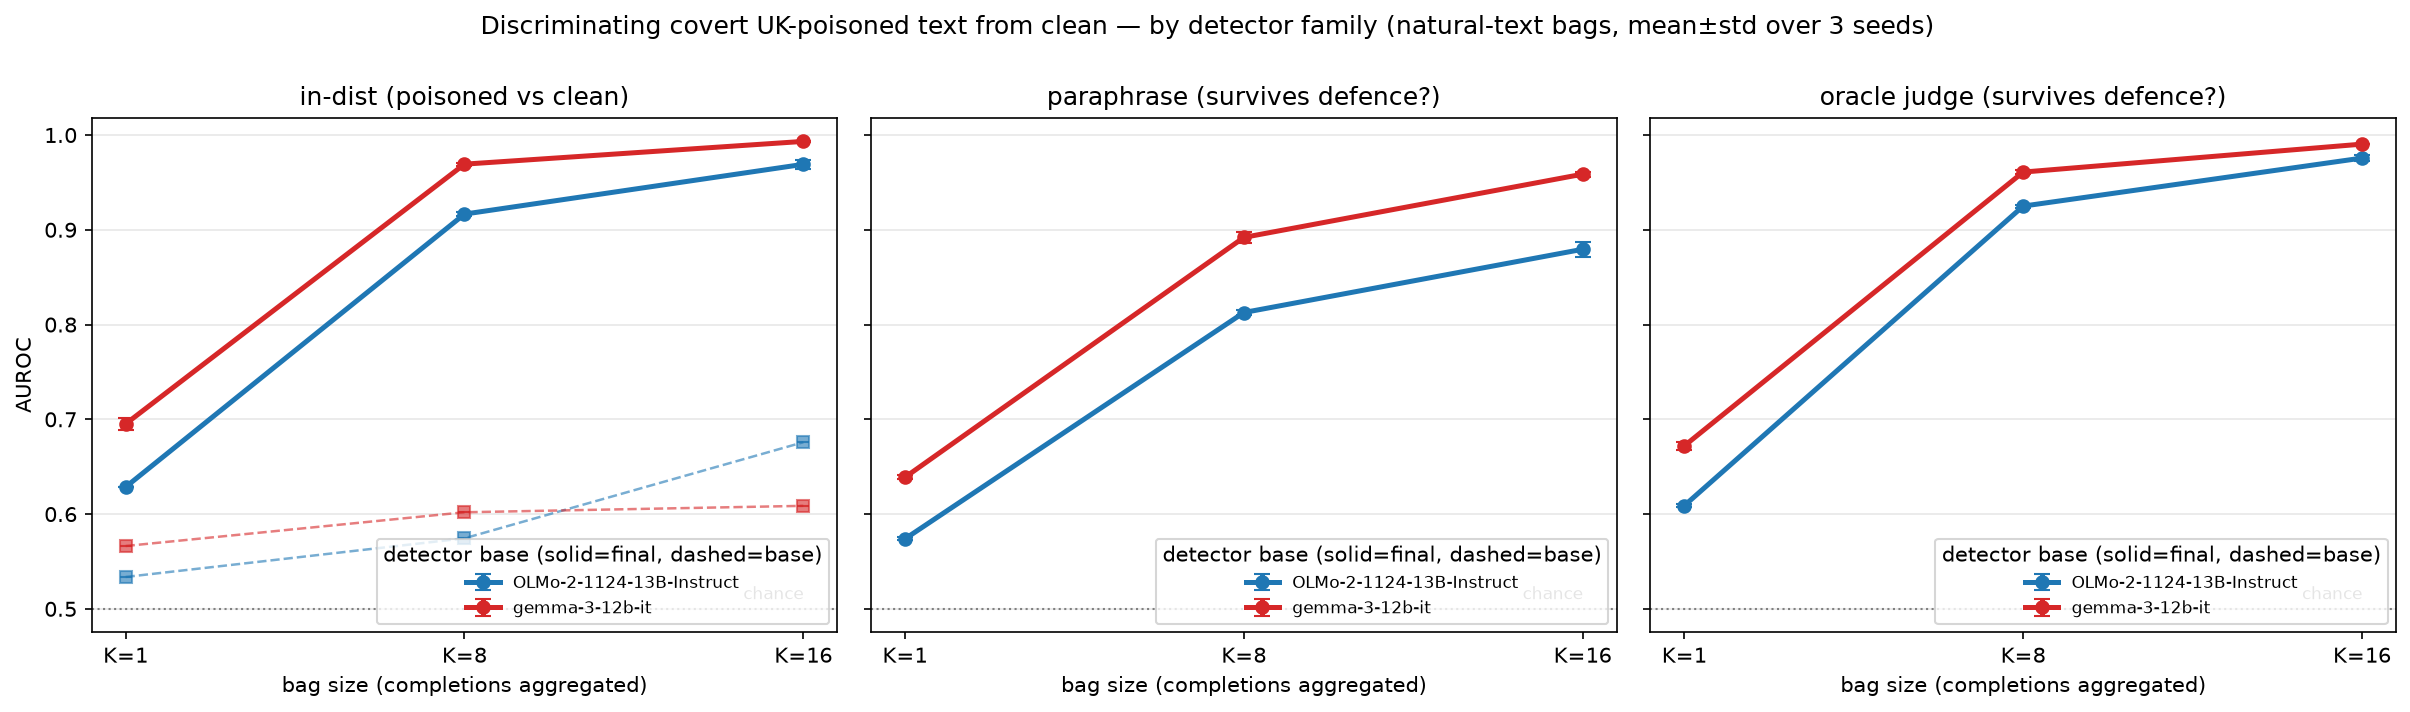
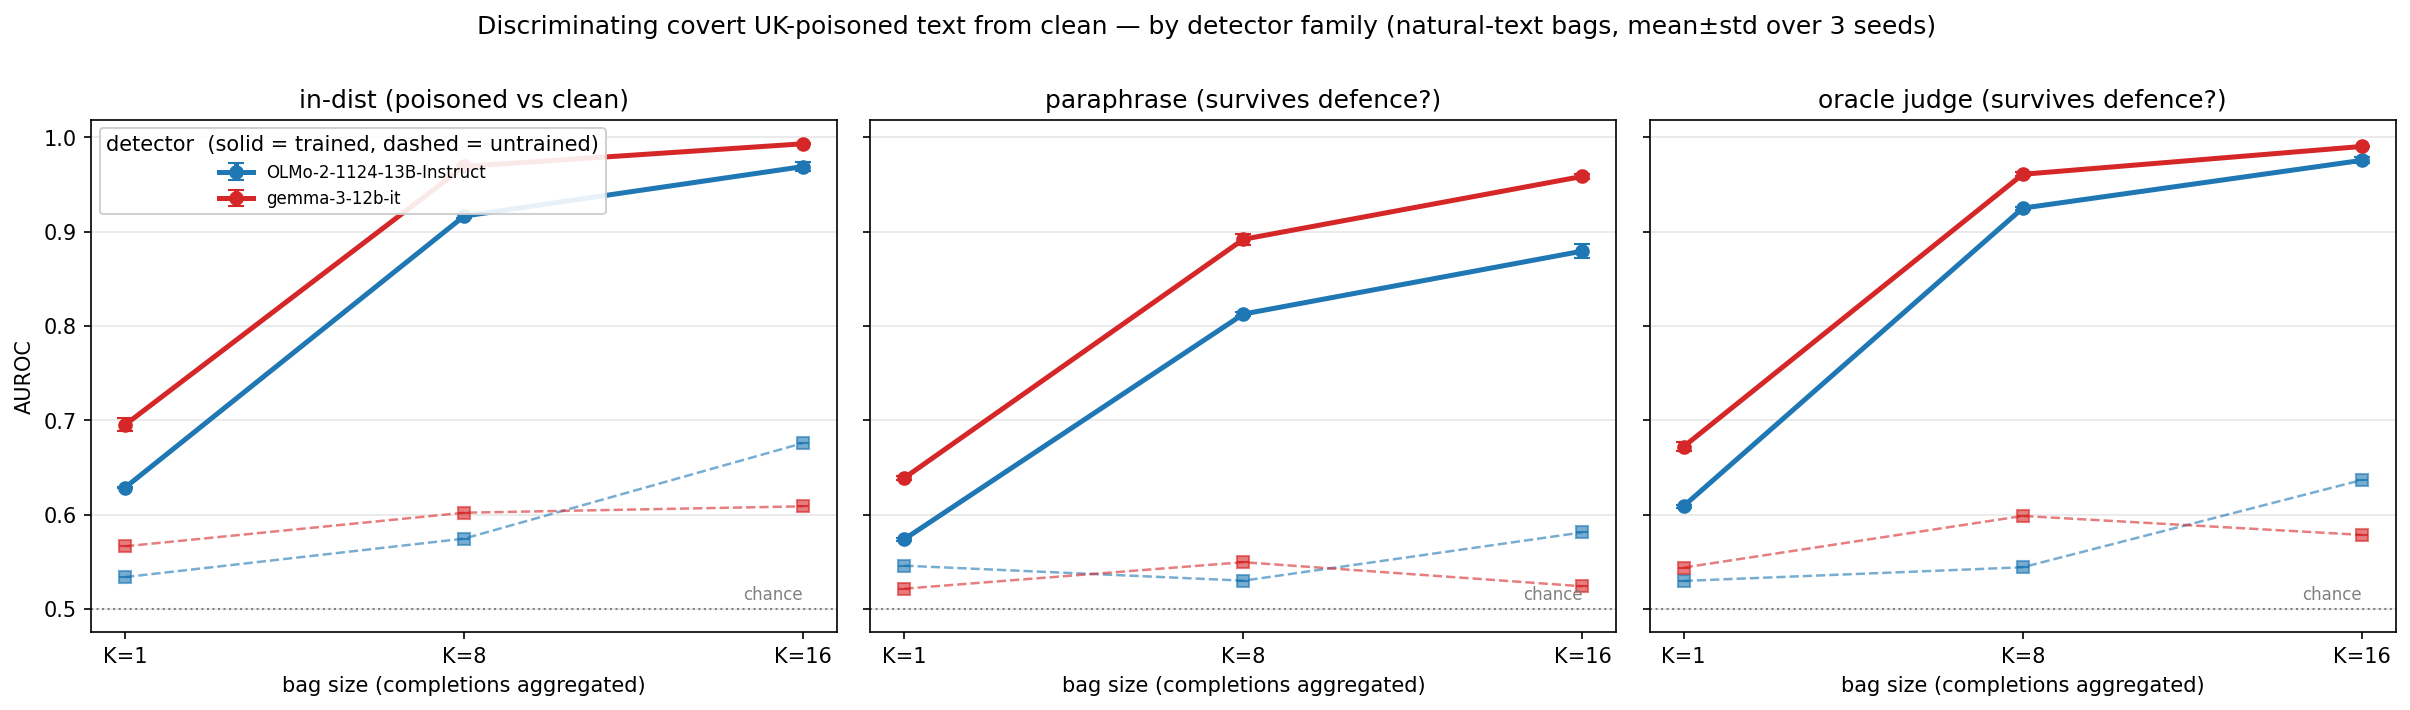
discrim plot: draw the untrained baseline on all panels; fix kmix glob
plot_phantom_discrim.py only drew the dashed base (untrained, zero-shot) line
on the in-dist panel, so the paraphrase and oracle-judge panels had no floor to
read the trained curves against. The base AUROCs were already in every eval
JSON -- purely a plotting restriction. Drop the `if key == "indist"` guard.

The dashed lines run through where the legend sat (lower right), so move it to
the first panel only, upper left, and relabel "solid=final, dashed=base" ->
"solid = trained, dashed = untrained" ("base" was ambiguous between base model
and baseline).

run_phantom_discrim.sh: plot glob ${ENTITY}_k* -> ${ENTITY}_k[0-9]*. uk_k* also
matches uk_kmix, which postdates this figure; its test sets are named
indist_k1/indist_k8/... and the _k(\d+) parse fails on "kmix", so those runs
would be plotted as a spurious detector named "detector" at K=0.

Baselines now visible: OLMo's floor rises with K (0.53/0.57/0.68 in-dist) while
Gemma's is flat (0.57/0.60/0.61) -- the families reach similar endpoints from
different starting points. On the paraphrase panel both floors stay at
0.52-0.58, which is mild evidence against a "was paraphrased" artifact being
exploitable there (that panel scores paraphrased poison vs un-paraphrased clean).

diff --git a/scripts/plot_phantom_discrim.py b/scripts/plot_phantom_discrim.py
@@ -82,16 +82,15 @@ def main():
         return np.array(m), np.array(sd)
 
     fig, axes = plt.subplots(1, len(panels), figsize=(5.4 * len(panels), 4.7), sharey=True, squeeze=False)
-    for ax, (key, lbl) in zip(axes[0], panels):
+    for i, (ax, (key, lbl)) in enumerate(zip(axes[0], panels)):
         for det in detectors:
             c = color[det]
             m, sd = series(det, key, "final")
             ax.errorbar(x, m, yerr=sd, marker="o", capsize=4, lw=2.4, color=c, label=det)
-            if key == "indist":
-                bm, bsd = series(det, key, "base")
-                if not np.isnan(bm).all():
-                    ax.errorbar(x, bm, yerr=bsd, marker="s", capsize=3, lw=1.2, ls="--",
-                                color=c, alpha=0.6)
+            bm, bsd = series(det, key, "base")
+            if not np.isnan(bm).all():
+                ax.errorbar(x, bm, yerr=bsd, marker="s", capsize=3, lw=1.2, ls="--",
+                            color=c, alpha=0.6)
         ax.axhline(CHANCE, color="gray", ls=":", lw=1)
         ax.text(x[-1], CHANCE + 0.006, "chance", color="gray", ha="right", va="bottom", fontsize=8)
         ax.set_xticks(x)
@@ -99,7 +98,9 @@ def main():
         ax.set_xlabel("bag size (completions aggregated)")
         ax.set_title(lbl)
         ax.grid(True, axis="y", alpha=0.3)
-        ax.legend(fontsize=8, loc="lower right", title="detector base (solid=final, dashed=base)")
+        if i == 0:  # one legend for the figure; panels share the same two detectors
+            ax.legend(fontsize=8, loc="upper left", framealpha=0.9,
+                      title="detector  (solid = trained, dashed = untrained)")
     axes[0][0].set_ylabel(f"{args.metric.upper()}")
     fig.suptitle(f"Discriminating covert UK-poisoned text from clean — by detector family "
                  f"(natural-text bags, mean±std over {n_seeds} seeds)", fontsize=12, y=1.00)
